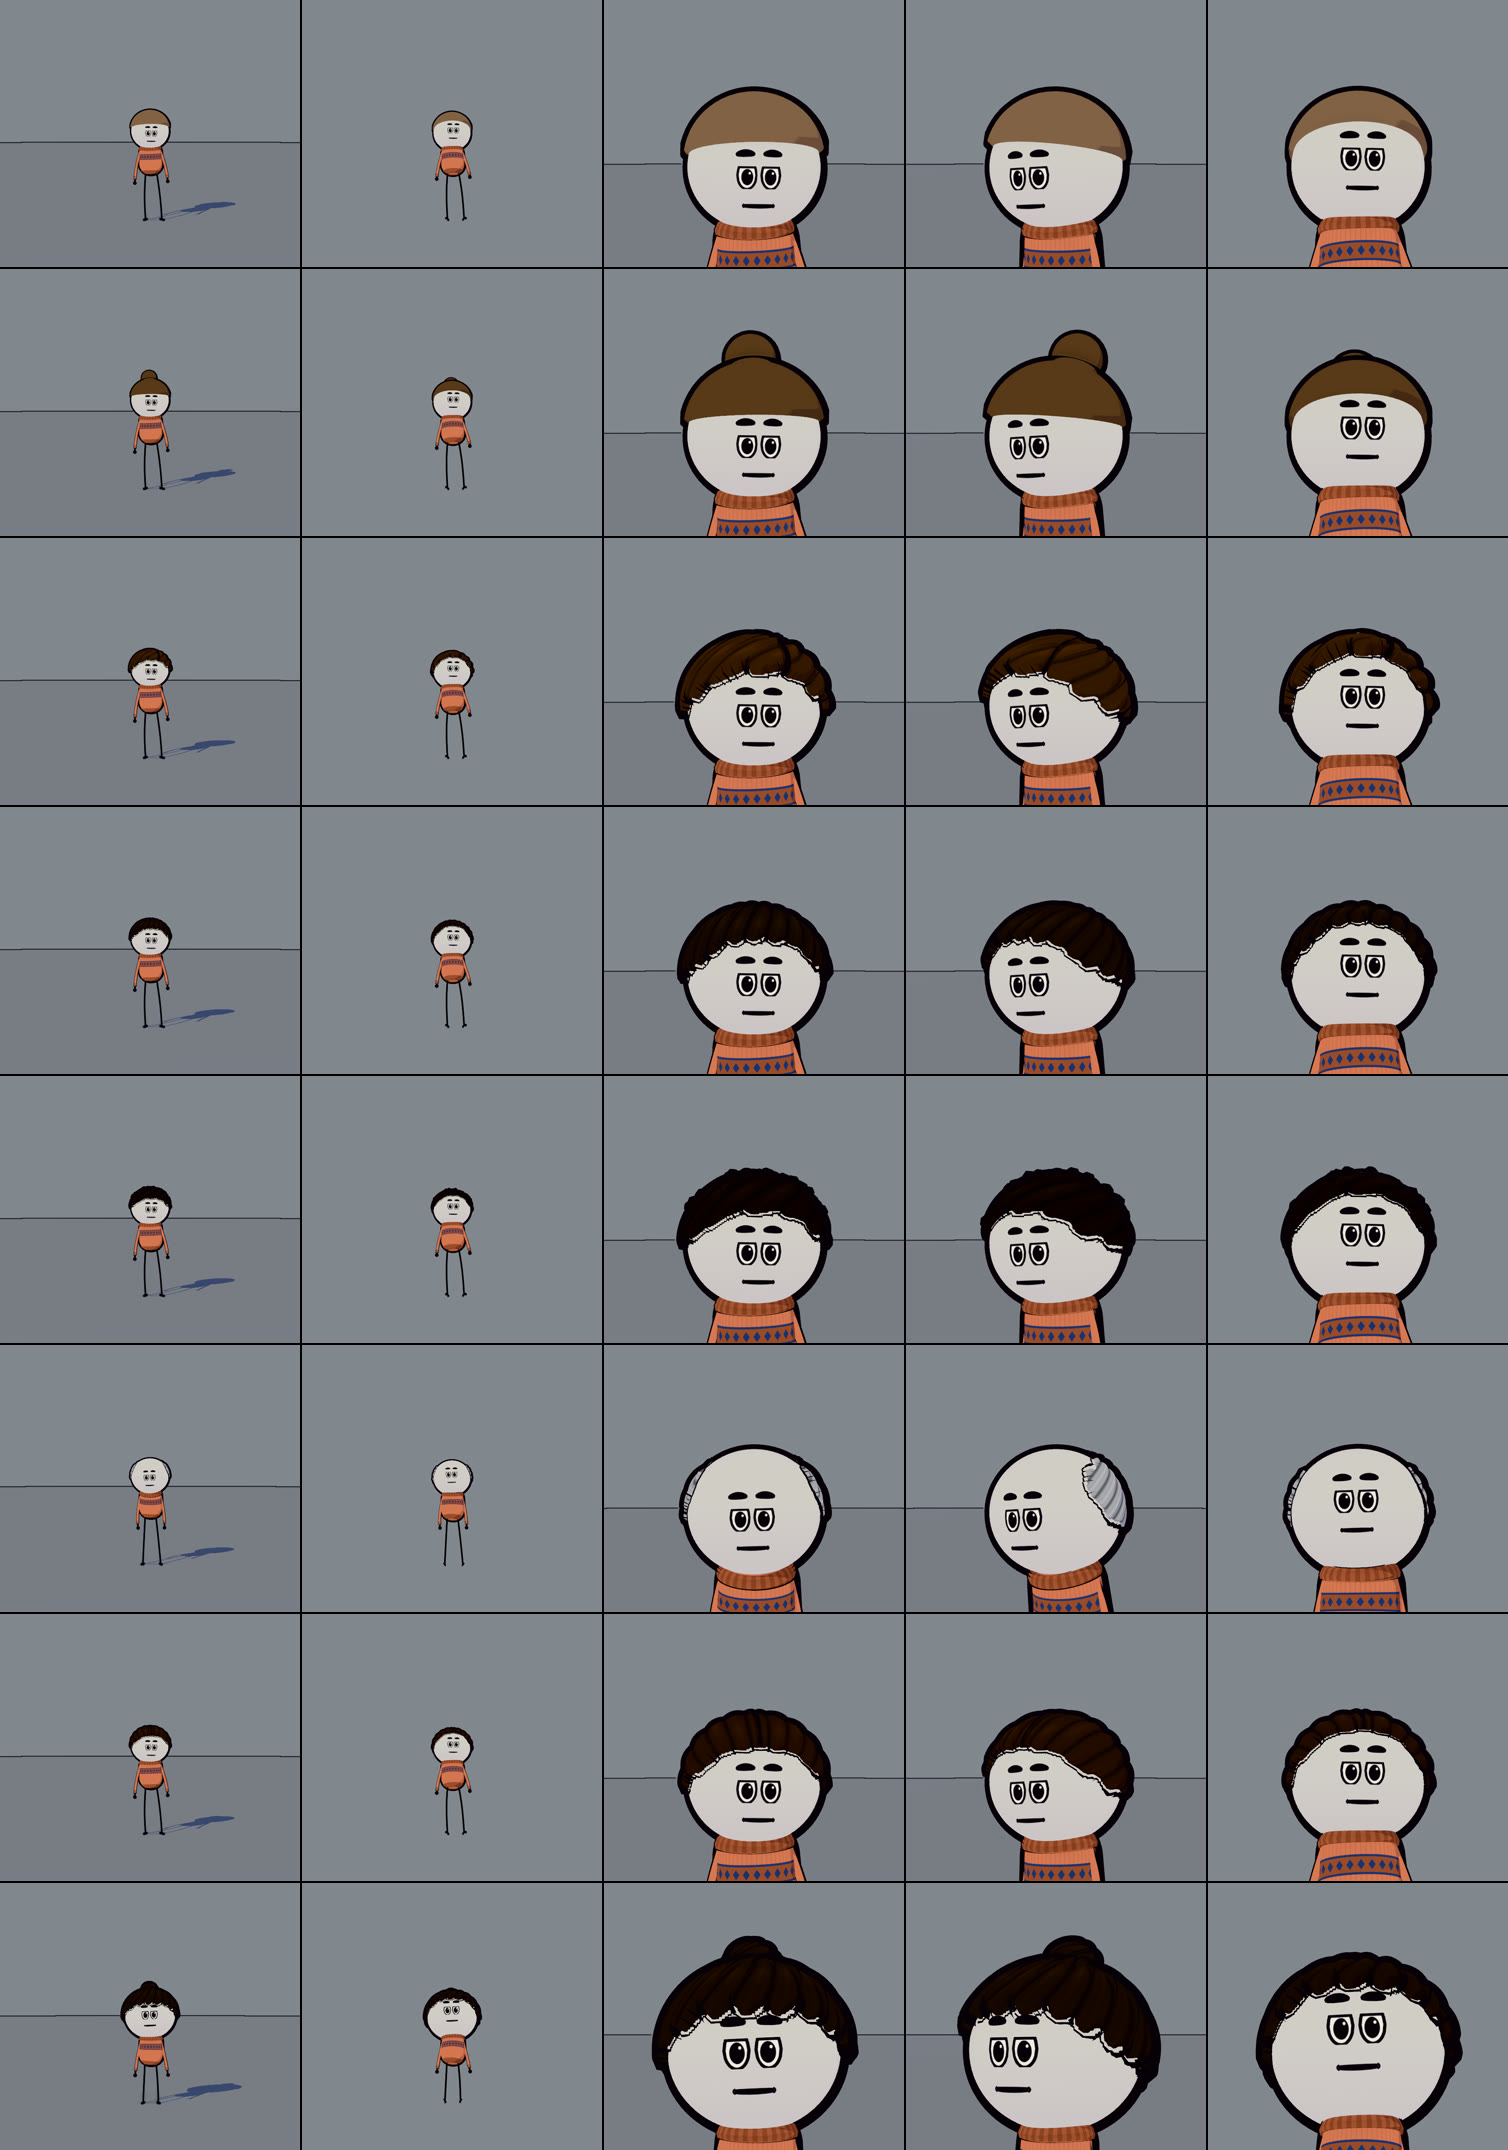
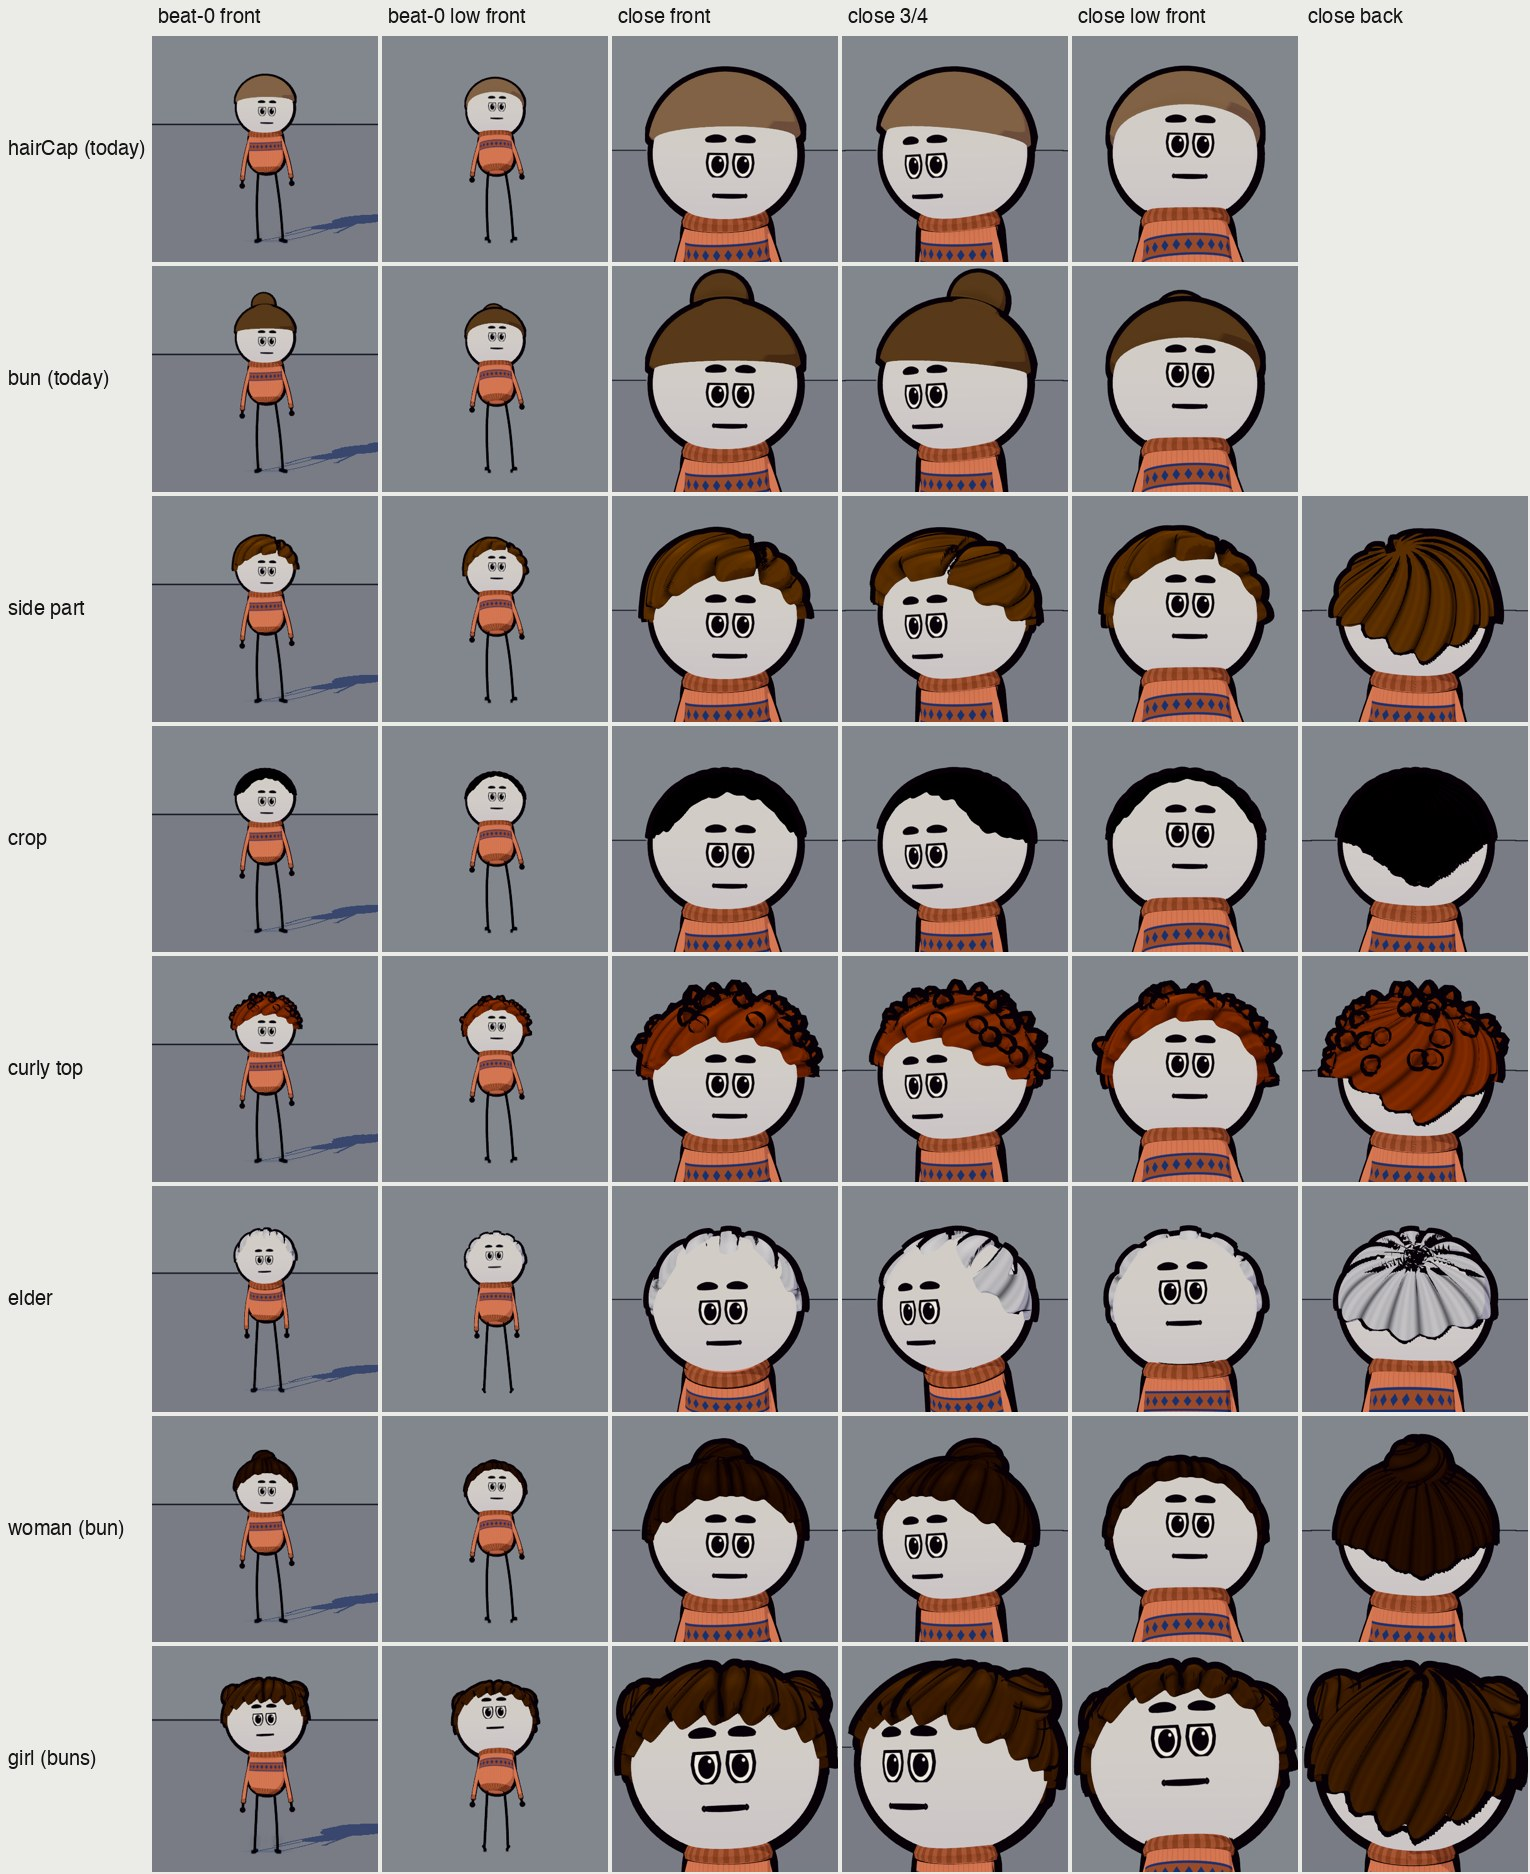
hair sheet round 2: labelled rows and views, back view, run clip framed

diff --git a/styles/stick-man/tools/run/hairsheet_compose.py b/styles/stick-man/tools/run/hairsheet_compose.py
@@ -1,0 +1,20 @@
+# hair look sheet: rows = styles, columns = views, labelled
+import sys, os
+from PIL import Image, ImageDraw, ImageFont
+d = sys.argv[1]; out = sys.argv[2]
+rows = ['hairCap (today)', 'bun (today)', 'side part', 'crop', 'curly top', 'elder', 'woman (bun)', 'girl (buns)']
+cols = ['beat-0 front', 'beat-0 low front', 'close front', 'close 3/4', 'close low front', 'close back']
+T = 230; LW = 150; TH = 34
+try: F = ImageFont.truetype('/System/Library/Fonts/Helvetica.ttc', 20)
+except Exception: F = ImageFont.load_default()
+S = Image.new('RGB', (LW + T * 6, TH + T * 8), (235, 235, 232)); g = ImageDraw.Draw(S)
+for c, n in enumerate(cols): g.text((LW + c * T + 8, 7), n, fill=(20, 20, 20), font=F)
+for r, n in enumerate(rows):
+    g.text((8, TH + r * T + T // 2 - 10), n, fill=(20, 20, 20), font=F)
+    for c in range(6):
+        p = os.path.join(d, f'old_{r * 5 + c}.png') if r < 2 else os.path.join(d, f'h_{r * 6 + c}.png')
+        if (r < 2 and c > 4) or not os.path.exists(p): continue
+        im = Image.open(p).convert('RGB')
+        box = (180, 440, 540, 800) if c < 2 else (110, 380, 610, 880)   # the figure / the head
+        S.paste(im.crop(box).resize((T - 4, T - 4)), (LW + c * T + 2, TH + r * T + 2))
+S.save(out, quality=88); print(out, S.size)
